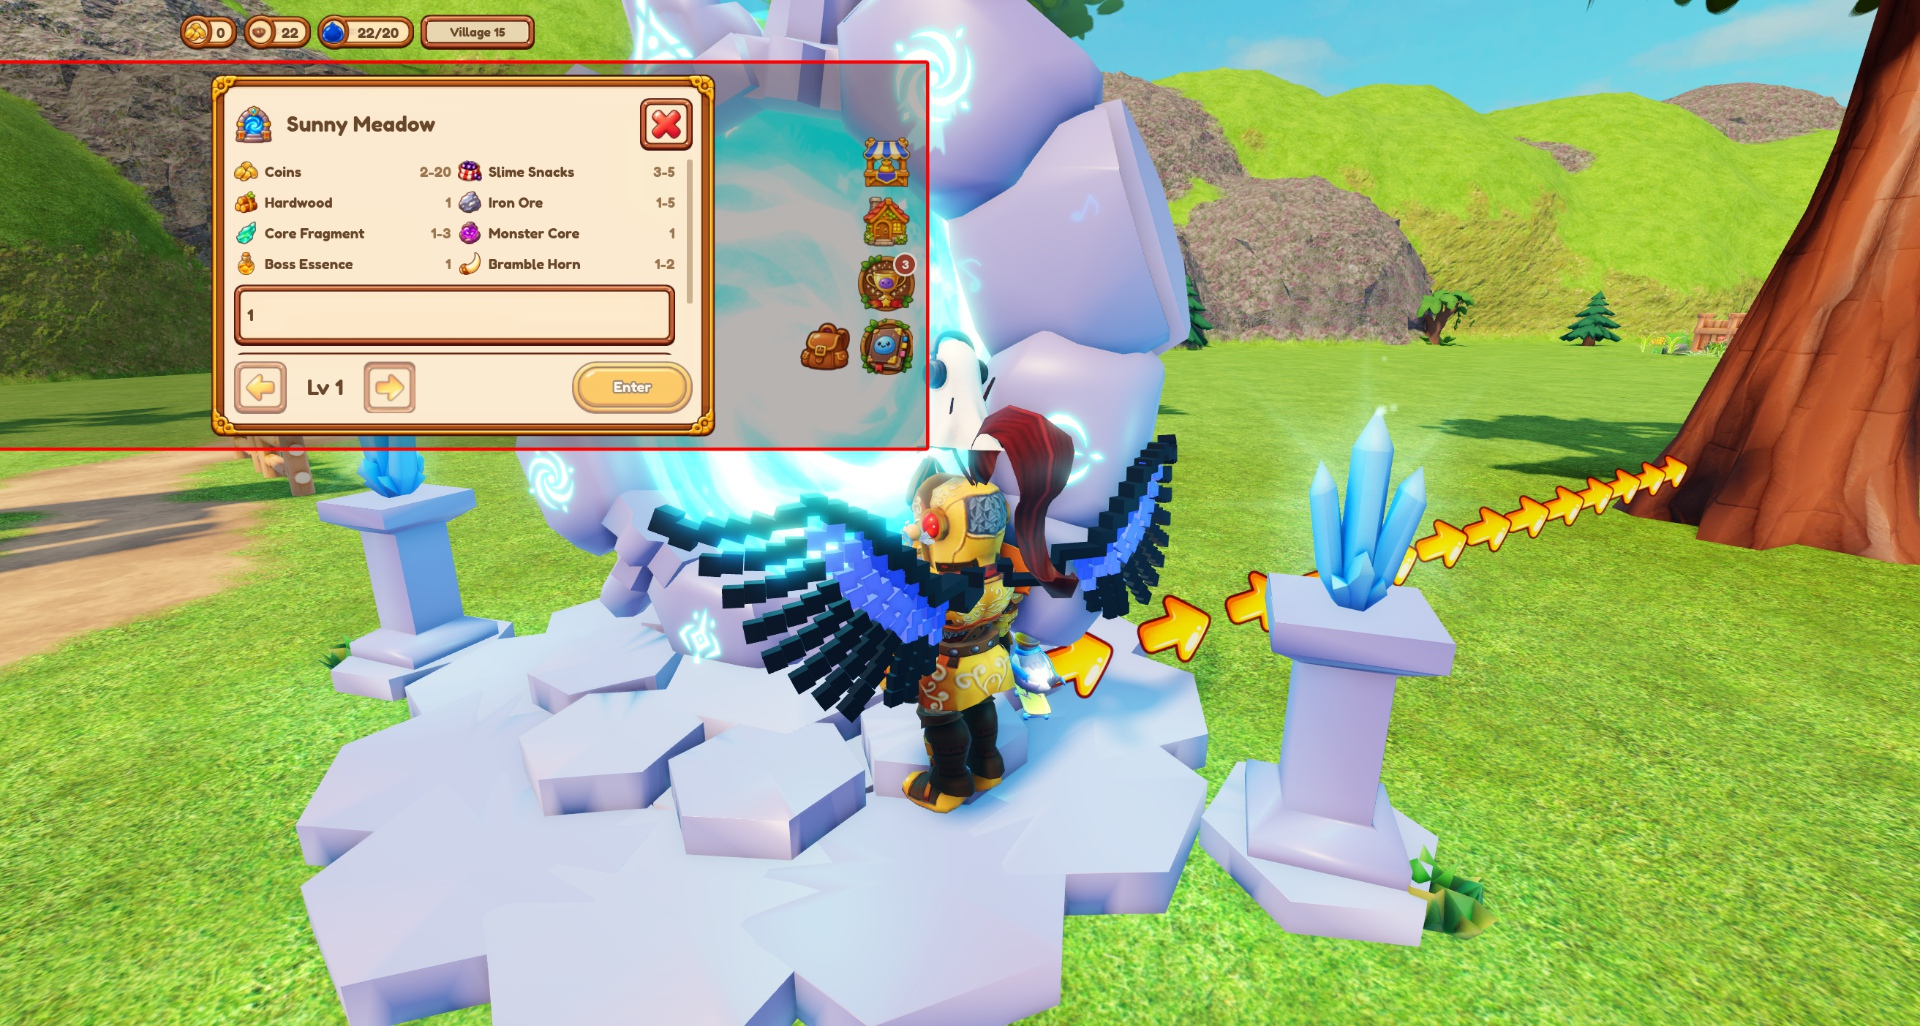
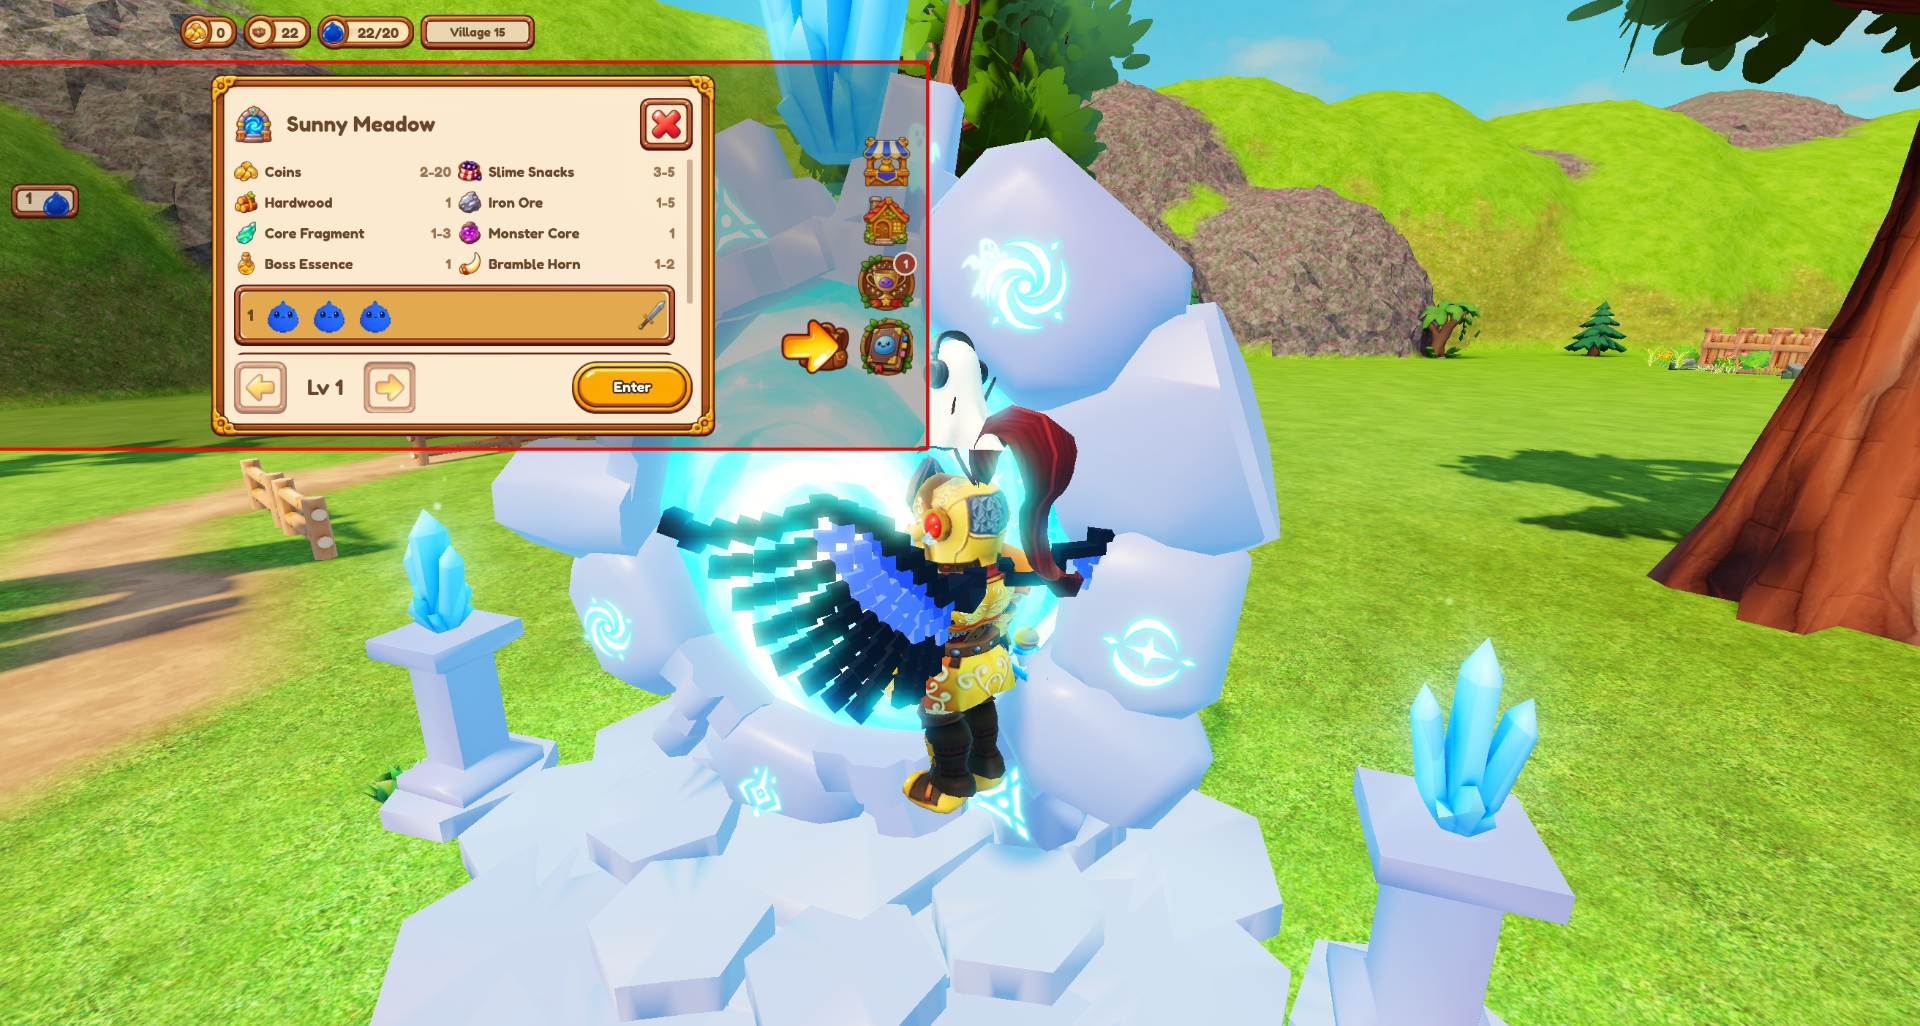
One frame per slime; every screen looked over for what is off
A slime inside a card is drawn bare; tiles stack and centre their content. Filter pills fit their words,
the sell sheet's tabs sit left and its list fills the room, the Teams list closes the empty band, and the
dish, food and recipe rows use the kit's row plate.

diff --git a/docs/STATUS.md b/docs/STATUS.md
@@ -1,5 +1,18 @@
 # Status
 
+## 2026-11-04 — one frame per slime; every screen looked over for what is off
+
+The owner: a frame inside a frame means nothing; drop one frame for each slime on every screen, and straighten anything off
+centre, unbalanced or spilling out of its frame.
+- Slime tiles (book, pickers, sell, teams), the old slime cards, team rows at the Dungeon gate and attack cards: the slime sits
+  bare in its card; the tile's slime, level and stat line are stacked and centred.
+- Book filters All / Free / Work / Baby were squeezed into circles with the word touching the edge: now pills wide enough.
+- Sell sheet: tabs at the left as in the book, coins after them; the list takes the bottom room while no slime is picked.
+  Teams: the empty "waiting" line no longer leaves a band above the list.
+- Dish sale, Food panel and recipe rows: the kit's row plate instead of the old white boxes; "1" / "All" buttons are pills.
+- Seen on the 844 x 350 phone frame (`docs/ui/kit/`): book, kitchen picker, sell, dish sale, Dungeon gate with a team, Teams,
+  Food panel, recipes.
+
 ## 2026-11-04 — every screen in ChatGPT's painted UI kit; the slime page as in the concept
 
 The owner: the UI in the game exactly like the one ChatGPT made, every other screen in the same style, and ask ChatGPT for any

diff --git a/docs/UI.md b/docs/UI.md
@@ -34,6 +34,10 @@ built with UiKit is in the style with no extra work. Text on a coloured piece is
 (`UiKit.outline`). Missing pieces go to ChatGPT in the same chat, on magenta, in the same style.
 - Roblox quirk: a piece sliced only left and right (pills, bars, plates, ribbon) must use a thin middle row as its SliceCenter
   and `SliceScale = height / picture height`; a SliceCenter as tall as the picture draws arches. `UiKit.kit` does this.
+- One frame per thing (the owner, 2026-11-04): a slime inside a card that has a frame is drawn bare
+  (`UiSlimes.portrait(..., bare = true)`); only a slime standing alone (a team slot, a seat) keeps its own frame. A list row is
+  the kit's row plate (`UiKit.rowBack`), never a hand-drawn rounded box with a stroke; a text pill is wide enough for its word to
+  clear the round ends; an empty bar or line gives its room back to the list under it.
 - Not done: the concept's warm glow behind the slime (it needs a painted glow piece, not a code shape).
 - Shots on a phone frame: `docs/ui/kit/`.
 
